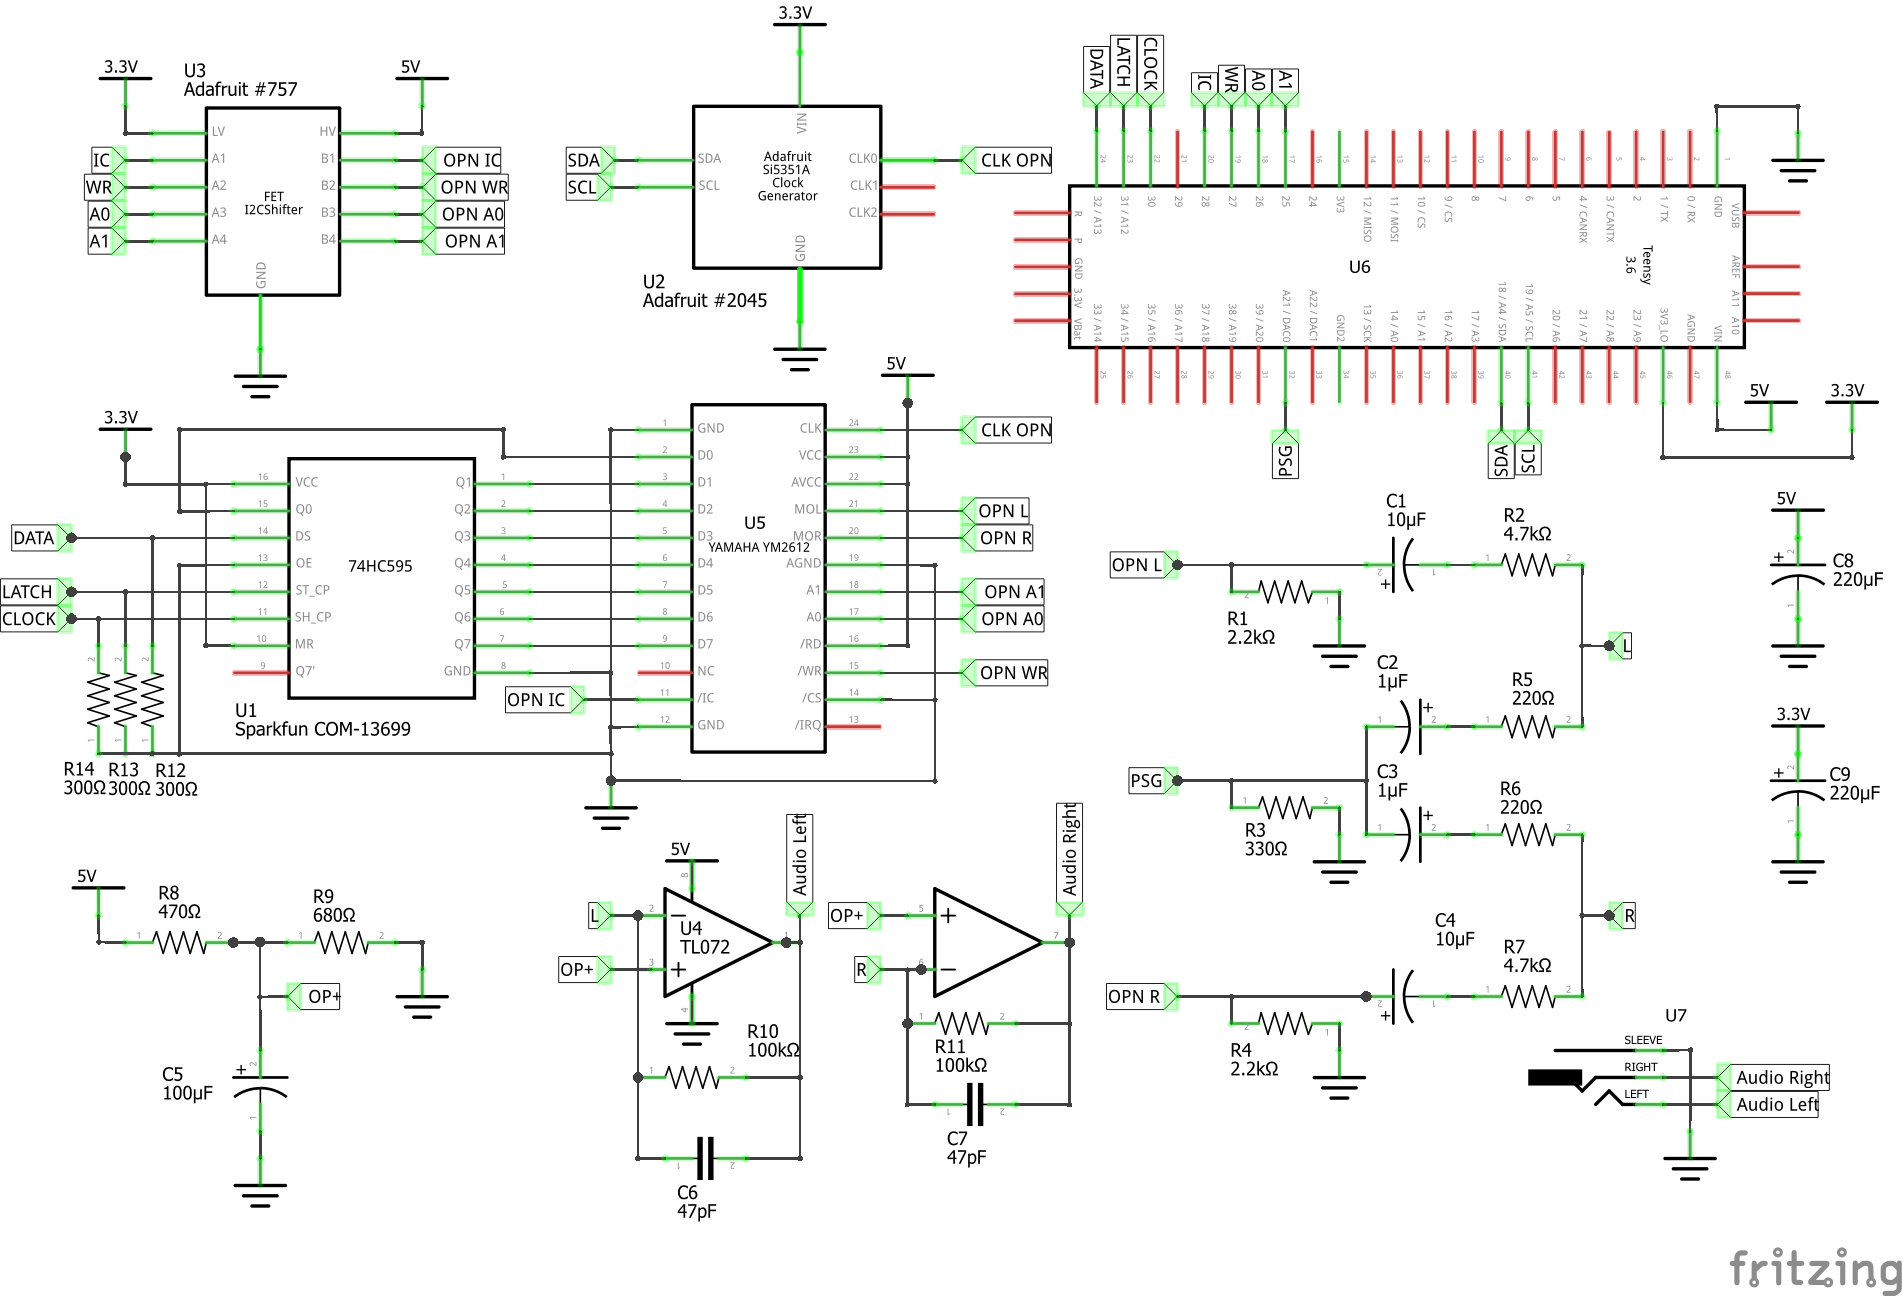
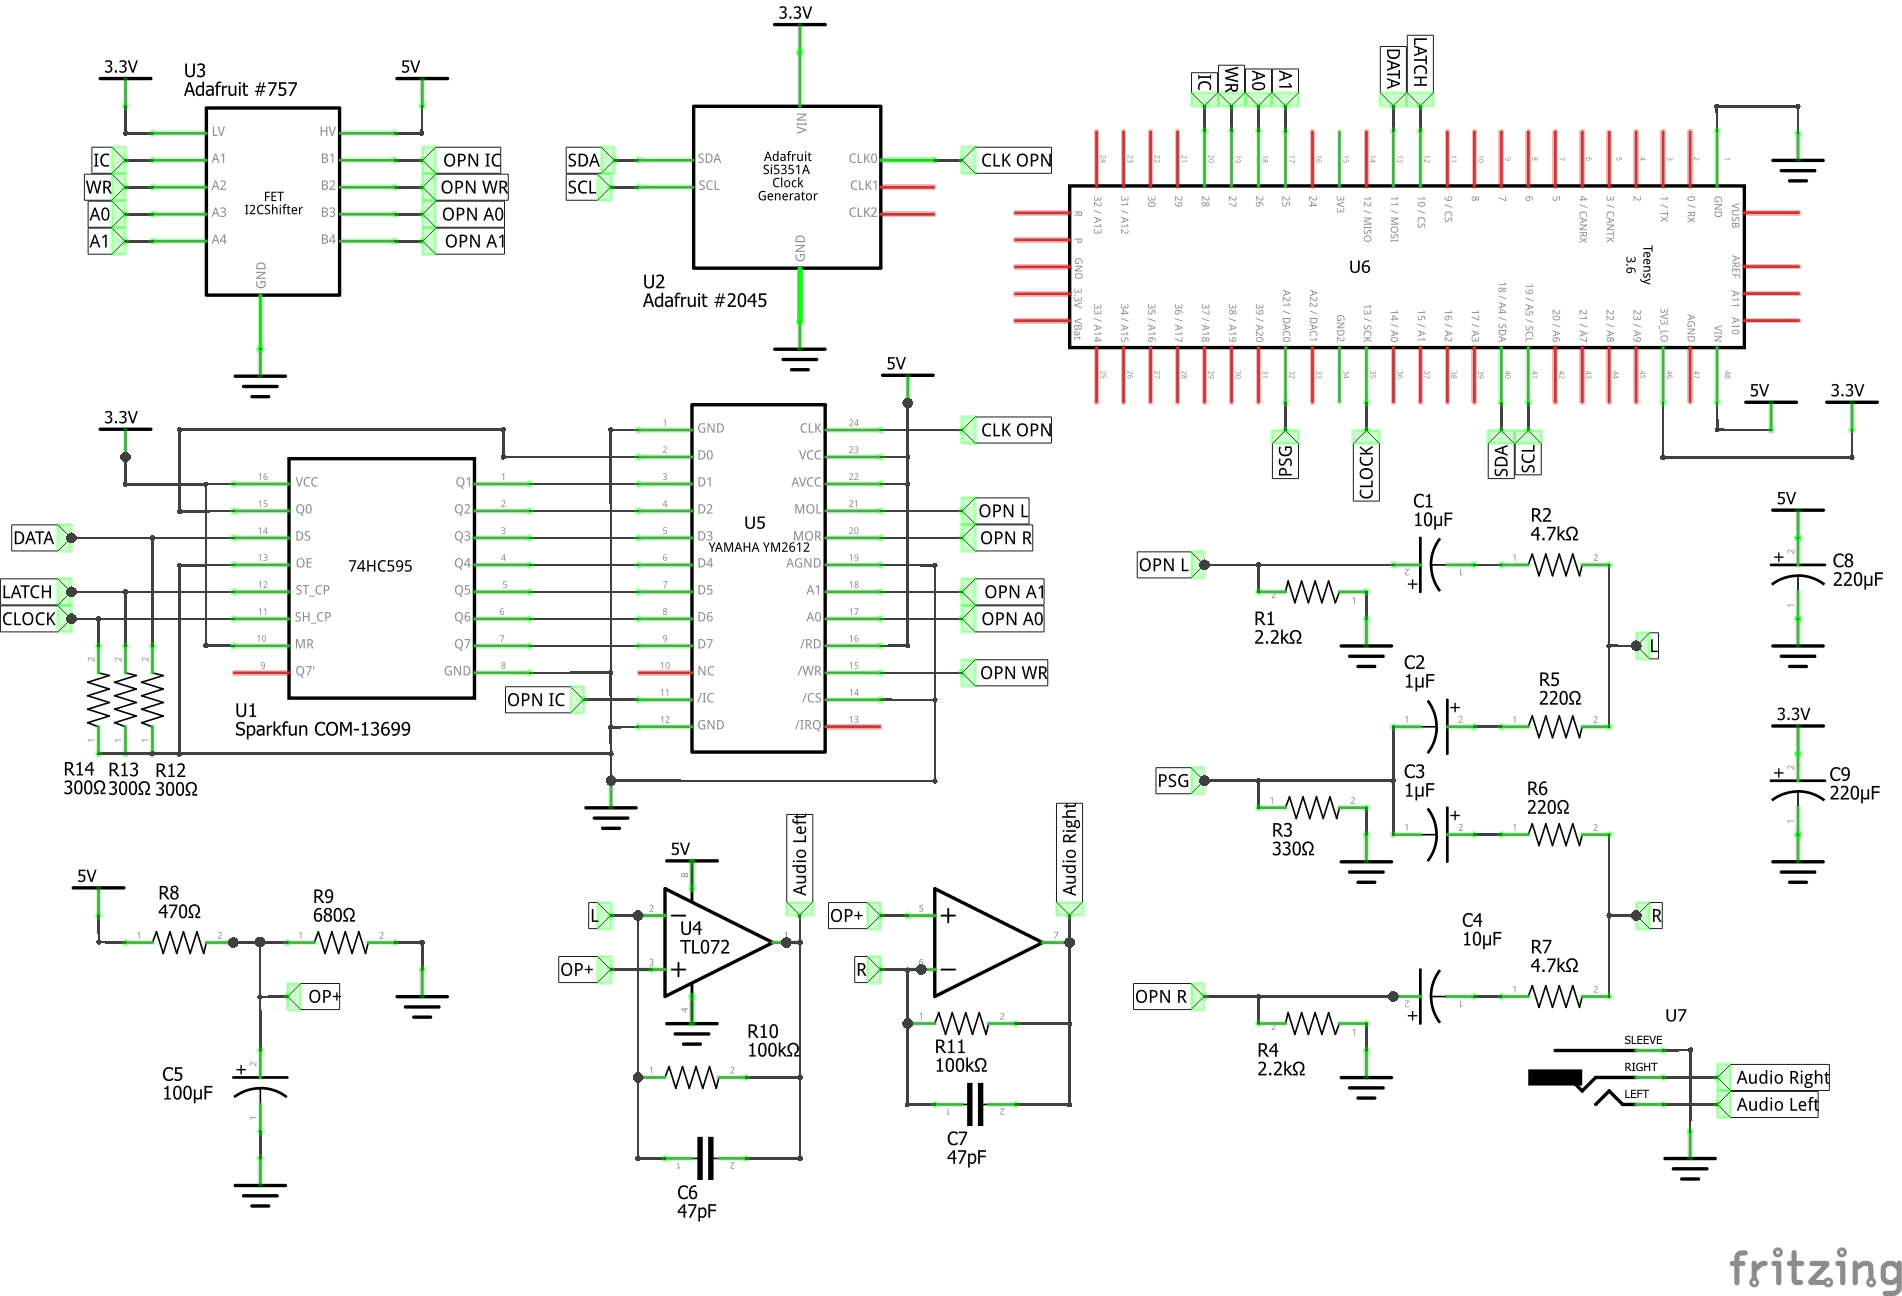
Change shift register function to SPI class

diff --git a/hardware/src/chip/shiftregister.cpp b/hardware/src/chip/shiftregister.cpp
@@ -1,11 +1,9 @@
 #include "shiftregister.hpp"
 #include <Arduino.h>
-
-#define SR_DATA 32
-#define SR_LATCH 31
-#define SR_CLOCK 30
+#include <SPI.h>
 
 bool ShiftRegister::_setup = false;
+static SPISettings _srSpiSettings(2'000'000, MSBFIRST, SPI_MODE0);
 
 void ShiftRegister::setup(void)
 {
@@ -14,32 +12,27 @@ void ShiftRegister::setup(void)
         return;
     }
 
-    pinMode(SR_DATA, OUTPUT);
-    pinMode(SR_CLOCK, OUTPUT);
-    pinMode(SR_LATCH, OUTPUT);
+    pinMode(MOSI, OUTPUT);
+    pinMode(SCK, OUTPUT);
+    pinMode(SS, OUTPUT);
 
-    digitalWriteFast(SR_DATA, LOW);
-    digitalWriteFast(SR_CLOCK, LOW);
-    digitalWriteFast(SR_LATCH, LOW);
+    digitalWriteFast(MOSI, LOW);
+    digitalWriteFast(SCK, LOW);
+    digitalWriteFast(SS, LOW);
+
+    SPI.begin();
 
     _setup = true;
 }
 
 void ShiftRegister::pushData(uint8_t data)
 {
-    // We have to bit-bang the shift register because
-    // the SPI library doesn't work in interrupts
+    digitalWriteFast(SS, LOW);
 
-    digitalWriteFast(SR_LATCH, LOW);
+    SPI.beginTransaction(_srSpiSettings);
+    SPI.transfer(data);
+    SPI.endTransaction();
 
-    for (int8_t i = 7; i >= 0; i--)
-    {
-        digitalWriteFast(SR_DATA, data & (1 << i));
-        digitalWriteFast(SR_CLOCK, HIGH);
-        asm("nop\nnop\nnop\nnop\nnop\nnop\nnop\nnop\nnop\n");
-        digitalWriteFast(SR_CLOCK, LOW);
-    }
-
-    digitalWriteFast(SR_LATCH, HIGH);
+    digitalWriteFast(SS, HIGH);
     asm("nop\nnop\nnop\nnop\nnop\nnop\nnop\nnop\nnop\n");
 }

diff --git a/hardware/src/chip/ym2612.cpp b/hardware/src/chip/ym2612.cpp
@@ -35,8 +35,6 @@ void Ym2612::setup(void)
 
 void Ym2612::pushData(uint8_t port, uint8_t data)
 {
-    digitalWriteFast(13, HIGH);
-
     port &= 0x03;
     digitalWriteFast(FM_A0, port & 0x01);
     digitalWriteFast(FM_A1, (port & 0x02) >> 1);
@@ -52,6 +50,4 @@ void Ym2612::pushData(uint8_t port, uint8_t data)
     asm("nop\nnop\nnop\nnop\nnop\nnop\nnop\nnop\nnop\nnop\nnop\nnop\nnop\nnop\nnop\n");
     asm("nop\nnop\nnop\nnop\nnop\nnop\nnop\nnop\nnop\nnop\nnop\nnop\nnop\nnop\nnop\n");
     digitalWriteFast(FM_WR, HIGH);
-
-    digitalWriteFast(13, LOW);
 }

diff --git a/hardware/src/chip/sn76489.cpp b/hardware/src/chip/sn76489.cpp
@@ -45,16 +45,12 @@ void Sn76489::setup(void)
 void Sn76489::pushData(uint8_t data)
 {
 #ifdef USE_REAL_PSG
-    digitalWriteFast(13, HIGH);
-
     ShiftRegister::pushData(data);
 
     digitalWriteFast(PSG_WE, LOW);
     wait10ns();
     digitalWriteFast(PSG_WE, HIGH);
     wait10ns();
-
-    digitalWriteFast(13, LOW);
 #else
     EmulatedPsg::write(data);
 #endif
